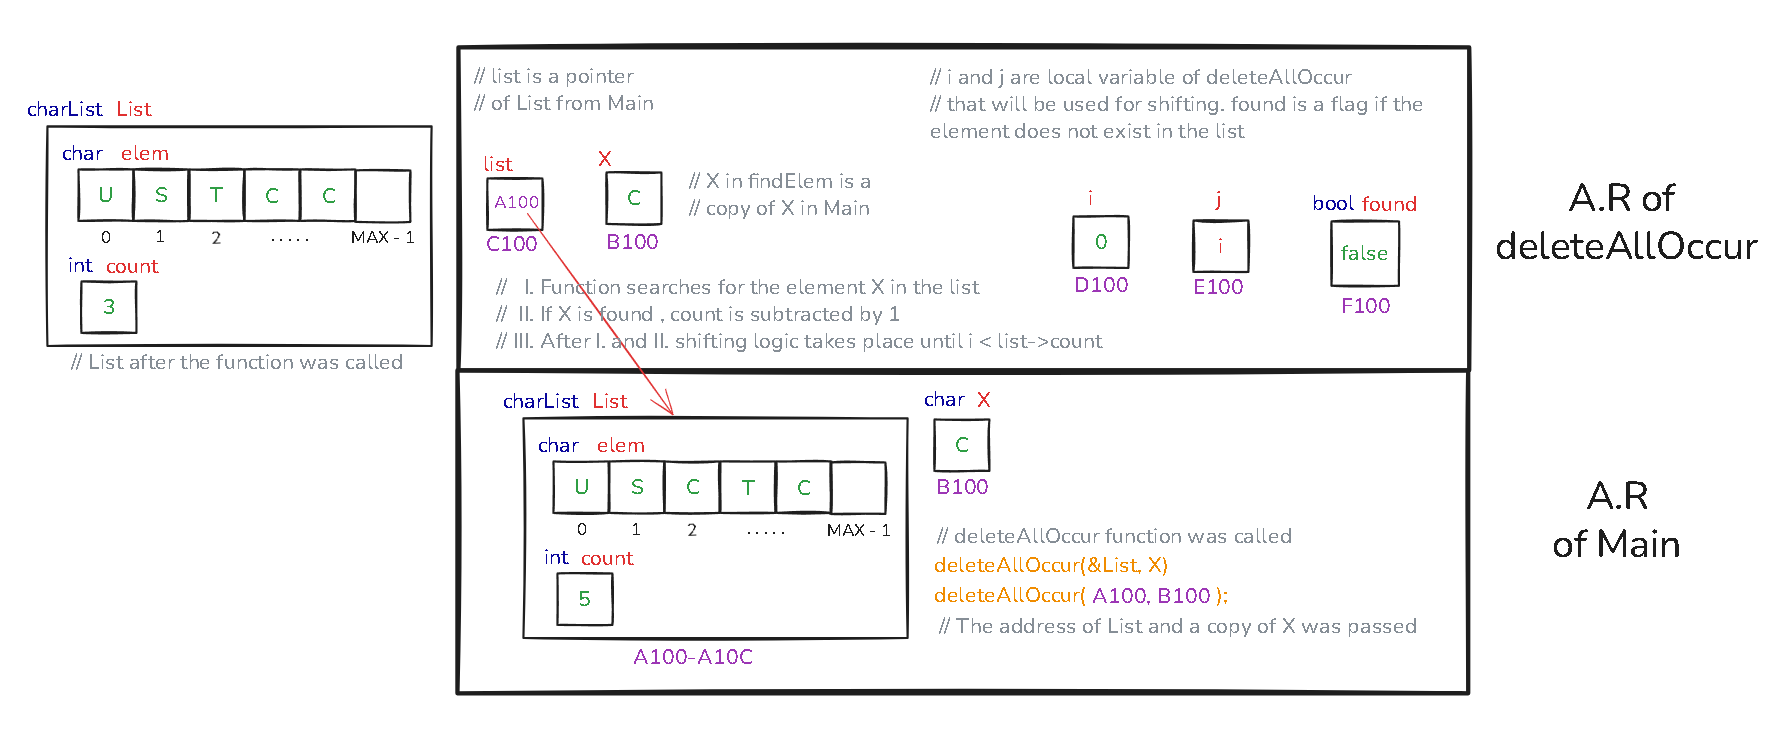
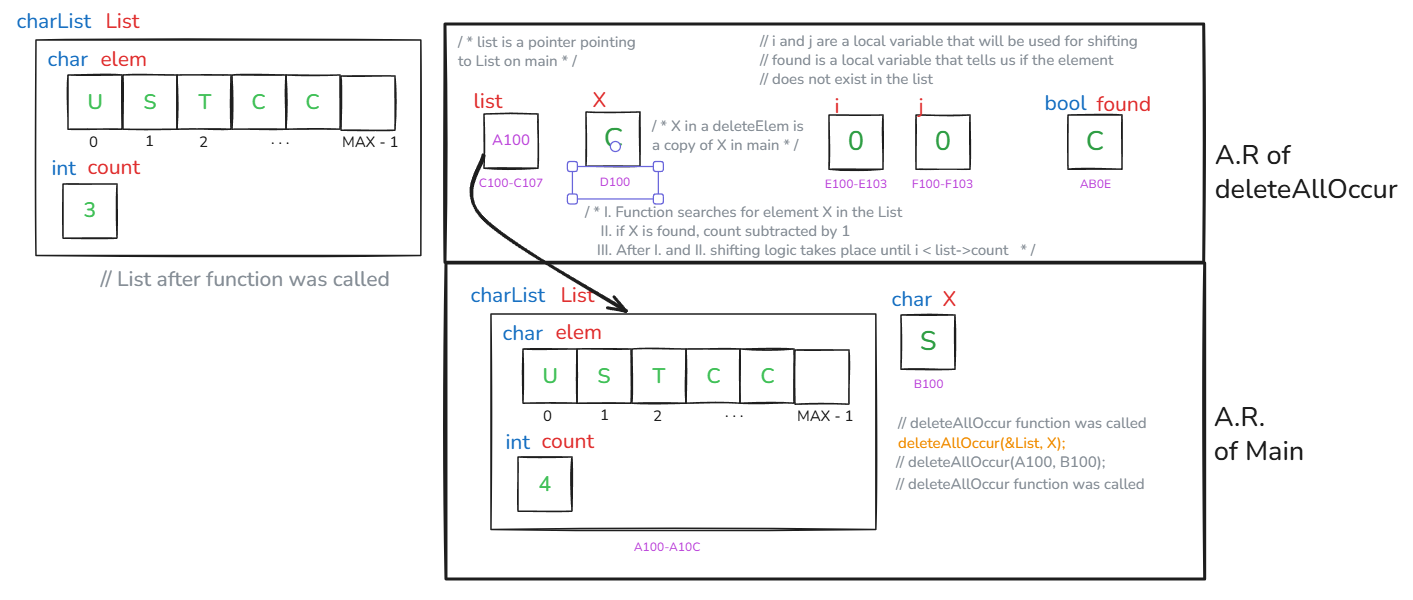
findELem exercise 01 complete

Changed region(s): [[0.0, 0.03, 0.9965, 0.99]]

diff --git a/Season_2/Exercises/Exercise_02/main.c b/Season_2/Exercises/Exercise_02/main.c
@@ -1,6 +1,6 @@
 #include <stdio.h>
 #include <stdlib.h>
-
+#include <stdbool.h>
 typedef struct node {
   char elem;
   struct node *link;
@@ -14,8 +14,8 @@ void deleteElem(charList *list, char X);
 void deleteAllOccur(charList *list, char X);
 void insertSorted(charList *list, char value);
 void sortList(charList *list);
-
 // Helper Function Prototypes
+bool findElem(charList list, char X);
 void init(charList *list);
 void display(charList list);
 charList createNode(char X);
@@ -93,7 +93,6 @@ void deleteAllOccur(charList *list, char X){
     }
 }
 
-
 void sortList(charList *list) {
     charList sorted = NULL;
     while (*list != NULL) {
@@ -120,6 +119,16 @@ void insertSorted(charList *list, char X){
     }
 }
 // Helper Functions
+bool findElem(charList list, char X){
+    charList trav = list;
+    if(list != NULL){
+        for(; trav != NULL && trav->elem != X; trav = trav->link){}
+    }else{
+        printf("List is empty");
+    }
+    return(trav != NULL)? true: false;
+}
+
 void init(charList *list){
     *list = NULL;
 }
@@ -197,8 +206,15 @@ int main(){
     
     printf("\n");
     printf("Display 5: ");
-    insertLast(&List, 'A');
+    insertLast(&List, 'X');
     display(List);
+
+    
+    printf("\n");
+    printf("Display 6: ");
+    bool catcher = findElem(List, 'X');
+    printf("%d", catcher);
+
 
     return 0;
 }
